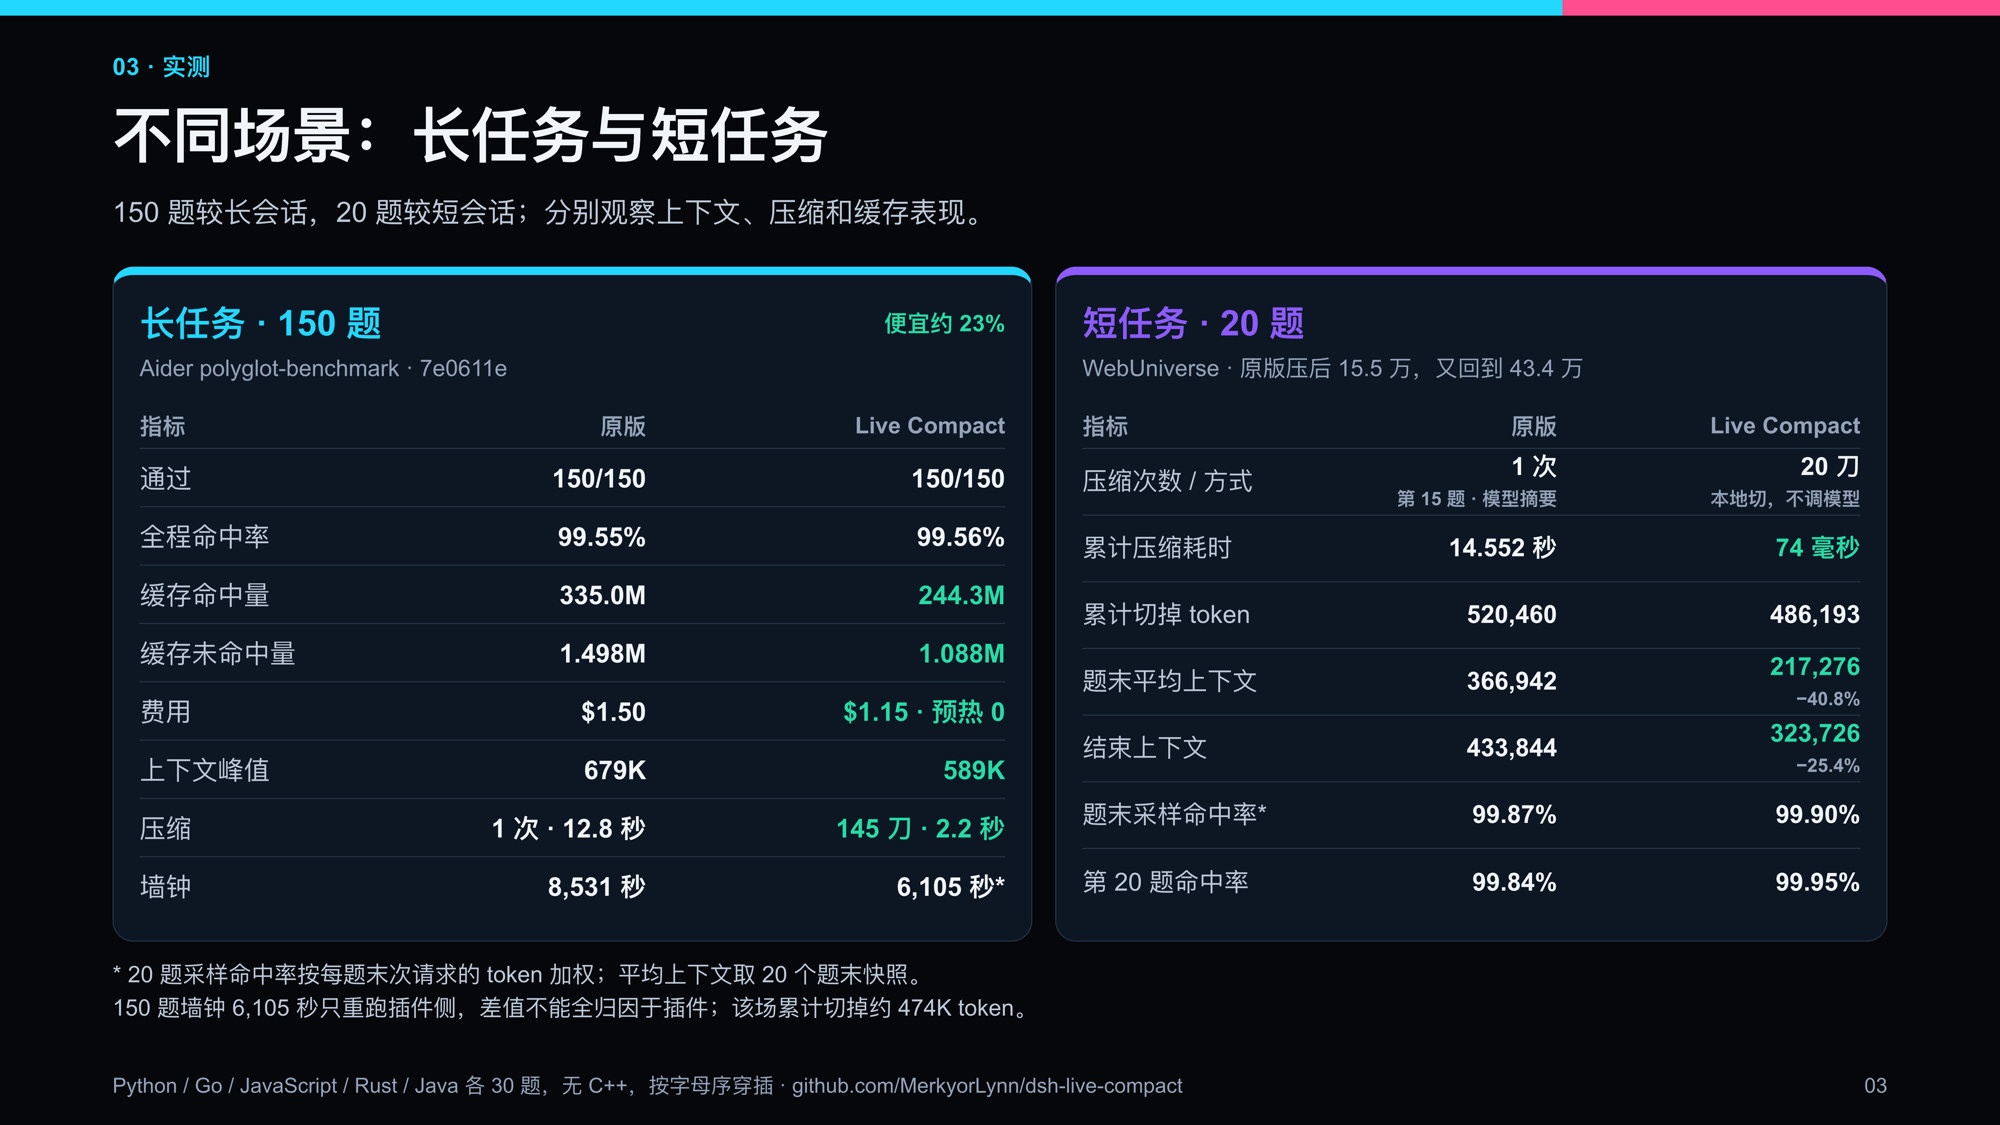
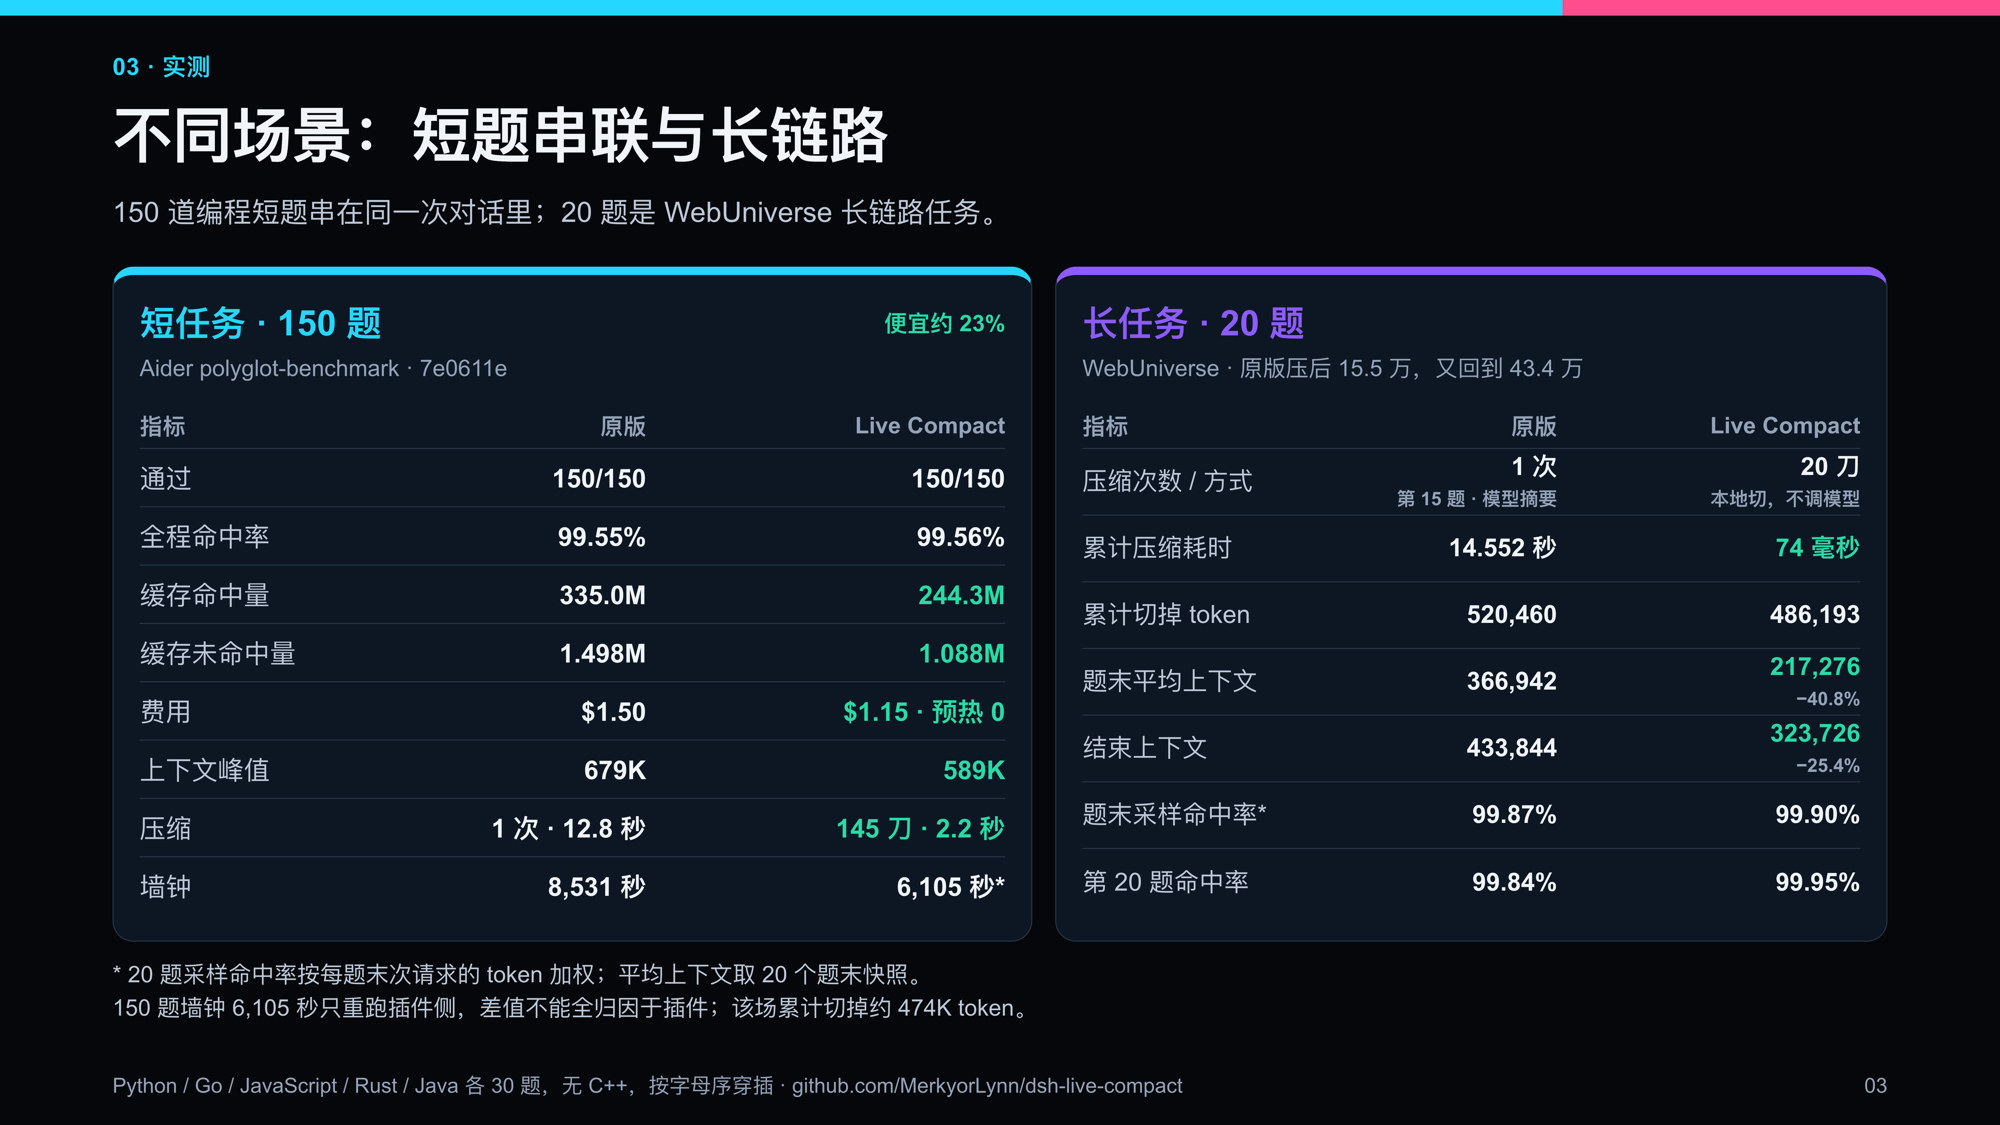
Replace the results slide and add the limits slide.
150 short exercises stay separate from the 20 long WebUniverse tasks.

Changed region(s): [[0.093, 0.0933, 0.496, 0.2178], [0.527, 0.28, 0.558, 0.3111], [0.062, 0.28, 0.093, 0.3111]]

diff --git a/README.md b/README.md
@@ -18,6 +18,8 @@ DSH 把压缩写死在大约 80%。不到这条线，上下文一直堆。到了
 
 ![150 题和 20 题](docs/slide-results.jpg)
 
+![适用范围与不足](docs/slide-scope.jpg)
+
 150 题是 Aider `polyglot-benchmark` `7e0611e`，Python、Go、JavaScript、Rust、Java 各 30 题，没有 C++，按字母序穿插在同一个会话里。公开仓这版 150/150 通过，费用 $1.15，预热 0 次，比原版 $1.50 便宜约 23%。命中率 99.56%，和原版 99.55% 同一水准。峰值 589K，没到 65 万。145 刀，2.2 秒，不调模型。墙钟 6,105 秒这轮只跑了插件一边，快出来的时间不能全算在插件上。
 
 20 题是另一场 WebUniverse 长任务。原版第 15 题才大压缩，14.6 秒，切掉 52 万，之后又涨回 43.4 万。插件 20 刀、74 毫秒，结束时上下文 32.4 万，低 11 万。第 20 题那一跳命中率原版 99.84%，插件 99.95%。
